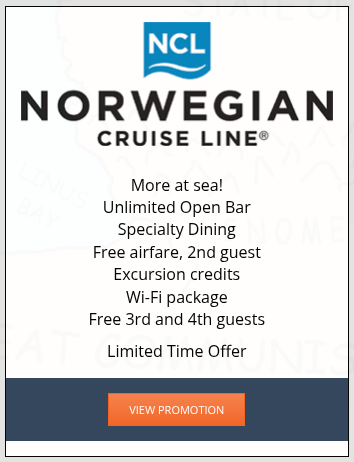
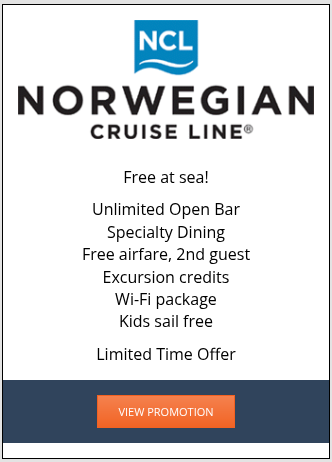
feb 2026 promos

Changed region(s): [[0.0, 0.0, 0.994, 1.0], [0.241, 0.3636, 0.753, 0.7879]]

diff --git a/content/post/cruises-1.md b/content/post/cruises-1.md
@@ -1,6 +1,6 @@
 ---
-#date: 2025-12-011:00:59-04:00
-description: "DECEMBER CRUISE PROMOS"
+#date: 2026-02-01T11:00:59-04:00
+description: "FEBRUARY CRUISE PROMOS"
 featured_image: "/images/siteimages/pexels-julia-volk-5273537.jpg"
 tags: [Promotions, Cruises]
 title: "Current Promotions - Cruises"
@@ -10,6 +10,10 @@ Check out these incredible getaway deals!
 
 Use the [Contact](/contact) page to get started on these amazing promotions.
 
+[![Current cruise promotion - Carnival](/images/siteimages/cruise_carnival_feb.png)](https://tap.myagentgenie.com/wp-content/uploads/2026/02/carnival-gold-February-2026.pdf)
+
+[![Current cruise promotion - Royal Caribbean](/images/siteimages/cruise_royal_feb.png)](https://tap.myagentgenie.com/wp-content/uploads/2026/02/RCCL-gold-feb-2026.pdf)
+
 [![Current cruise promotion - Norwegian](/images/siteimages/cruise_norwegian.png)](https://tap.myagentgenie.com/wp-content/uploads/2024/10/NCL-Gold-Oct-2024.pdf)
 
-[![Current cruise promotion - Regent](/images/siteimages/cruise_regent_december.png)](https://tap.myagentgenie.com/wp-content/uploads/2025/12/Regent-Gold-Dec-2025.pdf)
+[![Current cruise promotion - HX](/images/siteimages/cruise_hx_feb.png)](https://tap.myagentgenie.com/wp-content/uploads/2026/01/HX-Jan-Gold-2026.pdf)

diff --git a/content/post/land-1.md b/content/post/land-1.md
@@ -1,6 +1,6 @@
 ---
-#date: 2025-12-01T11:00:59-04:00
-description: "DECEMBER LAND PROMOS"
+#date: 2026-02-01T11:00:59-04:00
+description: "FEBRUARY LAND PROMOS"
 featured_image: "/images/siteimages/pexels-julia-volk-5273537.jpg"
 tags: [Promotions, Land]
 title: "Current Promotions - Land"
@@ -10,6 +10,6 @@ Check out these incredible getaway deals!
 
 Use the [Contact](/contact) page to get started on these amazing promotions.
 
-[![Current land promotion - Apple Leisure Group](/images/siteimages/land_apple_december.png)](https://tap.myagentgenie.com/wp-content/uploads/2025/05/ALG-gold-May-2025.pdf)
+[![Current land promotion - Funjet](/images/siteimages/land_funjet_feb.png)](https://tap.myagentgenie.com/wp-content/uploads/2026/01/funjet-gold-feb-2026.pdf)
 
-[![Current land promotion - Globus](/images/siteimages/land_globus_december.png)](https://tap.myagentgenie.com/wp-content/uploads/2025/12/Globus-gold-Dec-2025.pdf)
+[![Current land promotion - Globus](/images/siteimages/land_globus.png)](https://tap.myagentgenie.com/wp-content/uploads/2026/02/globus-gold-feb-2026.pdf)
